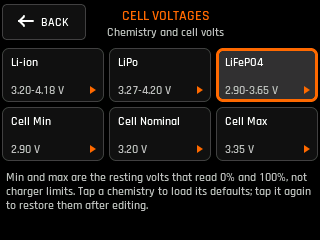
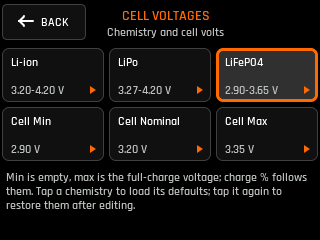
Show the LiFePO4 charge voltage as its maximum but read a rested pack as full at 3.40 V
Cell Max is now the industry's full-charge voltage (3.65 V LiFePO4, 4.20 V
Li-ion). The charge percentage still comes from resting voltage, so each
chemistry has its own resting-full point (3.40 V, 4.18 V) that sits at a fixed
share of the way from Cell Min to Cell Max and moves in proportion when either
is edited.

Changed region(s): [[0.0, 0.7, 0.9688, 0.875], [0.125, 0.35, 0.1562, 0.4083]]

diff --git a/src/lvgl_app/app_logic.cpp b/src/lvgl_app/app_logic.cpp
@@ -31,7 +31,7 @@ uint8_t batterySeriesCount = 20;
 uint8_t batteryChemistry = BATTERY_LIION;
 uint16_t batteryCellMinMv = 3200;
 uint16_t batteryCellNominalMv = 3600;
-uint16_t batteryCellMaxMv = 4180;
+uint16_t batteryCellMaxMv = 4200;
 uint16_t batteryCapacityDeciAh = 200;
 uint16_t batteryMaxAmps = 100;
 uint16_t motorMaxAmps = 150;
@@ -908,16 +908,21 @@ static bool batteryHistoryChanged(bool meaningfulOnly) {
 // and the curve only anchors it near empty and full.
 struct ChemistryProfile {
   const char *name;
-  uint16_t minMv;      // default resting cell voltage that reads 0 %
+  uint16_t minMv;      // default cell voltage that reads empty
   uint16_t nominalMv;  // default nominal cell voltage, behind the Wh figures
-  uint16_t maxMv;      // default resting cell voltage that reads 100 %
-  float ocv[11];       // curve shape between minMv and maxMv
+  uint16_t maxMv;      // default full-charge cell voltage, the figure the industry quotes
+  uint16_t restFullMv; // resting voltage a full pack settles at, which reads 100 %
+  float ocv[11];       // curve shape from minMv (0 %) to restFullMv (100 %)
 };
 
+// A cell charged to its full-charge voltage relaxes below it once the charger
+// lets go, and for LiFePO4 the drop is large (3.65 V charged, about 3.40 V
+// resting). The settings show the charge voltage; the charge percentage is
+// worked out from resting voltage, so it uses restFullMv as its 100 % point.
 static const ChemistryProfile kChemistries[BATTERY_CHEMISTRY_COUNT] = {
-    {"Li-ion", 3200, 3600, 4180, {3.20F, 3.45F, 3.55F, 3.62F, 3.68F, 3.74F, 3.80F, 3.88F, 3.96F, 4.06F, 4.18F}},
-    {"LiPo", 3270, 3700, 4200, {3.27F, 3.69F, 3.73F, 3.77F, 3.80F, 3.84F, 3.87F, 3.95F, 4.02F, 4.11F, 4.20F}},
-    {"LiFePO4", 2900, 3200, 3650, {2.90F, 3.10F, 3.20F, 3.22F, 3.25F, 3.26F, 3.27F, 3.30F, 3.32F, 3.35F, 3.65F}},
+    {"Li-ion", 3200, 3600, 4200, 4180, {3.20F, 3.45F, 3.55F, 3.62F, 3.68F, 3.74F, 3.80F, 3.88F, 3.96F, 4.06F, 4.18F}},
+    {"LiPo", 3270, 3700, 4200, 4200, {3.27F, 3.69F, 3.73F, 3.77F, 3.80F, 3.84F, 3.87F, 3.95F, 4.02F, 4.11F, 4.20F}},
+    {"LiFePO4", 2900, 3200, 3650, 3400, {2.90F, 3.10F, 3.20F, 3.22F, 3.25F, 3.26F, 3.27F, 3.30F, 3.32F, 3.35F, 3.40F}},
 };
 
 static const ChemistryProfile &chemistryProfile(uint8_t chemistry) {
@@ -934,13 +939,16 @@ uint16_t batteryChemistryDefaultMv(uint8_t chemistry, BatteryCellVoltage which) 
 }
 
 // The rider's min and max stretch the chemistry's curve: the curve keeps its
-// shape and its ends move to the chosen window, so 0 % and 100 % mean the
-// voltages the rider set.
+// shape, starts at the rider's minimum and ends at the same share of the way to
+// the rider's maximum that the default resting-full point sits at, so lowering
+// the charge voltage lowers where a full pack reads 100 % in proportion.
 static float cellCurveVolts(int point) {
   const ChemistryProfile &profile = chemistryProfile(batteryChemistry);
   const float defaultSpan = profile.ocv[10] - profile.ocv[0];
   const float shape = defaultSpan > 0.0F ? (profile.ocv[point] - profile.ocv[0]) / defaultSpan : point / 10.0F;
-  return batteryCellMinMv / 1000.0F + shape * (batteryCellMaxMv - batteryCellMinMv) / 1000.0F;
+  const float defaultWindow = (float)(profile.maxMv - profile.minMv);
+  const float restShare = defaultWindow > 0.0F ? (float)(profile.restFullMv - profile.minMv) / defaultWindow : 1.0F;
+  return batteryCellMinMv / 1000.0F + shape * restShare * (batteryCellMaxMv - batteryCellMinMv) / 1000.0F;
 }
 
 float batteryCellFullVolts() {

diff --git a/src/lvgl_app/screens.cpp b/src/lvgl_app/screens.cpp
@@ -6297,17 +6297,17 @@ static void showSubmenu() {
     }
     lv_obj_t *note = makeLabelAt(
         scr, kMenuEdgeX + 4, 170,
-        txt("Min and max are the resting volts that read 0% and 100%, not charger limits. Tap a chemistry to load "
-            "its defaults; tap it again to restore them after editing.",
-            "Min ja max ovat lepojännitteet, joilla näytetään 0 % ja 100 %, eivät laturin rajoja. Valitse kemia "
-            "ladataksesi oletukset; valitse uudelleen palauttaaksesi ne muokkauksen jälkeen.",
-            "Min und max sind die Ruhespannungen für 0 % und 100 %, keine Ladegrenzen. Chemie antippen lädt die "
+        txt("Min is empty, max is the full-charge voltage; charge % follows them. Tap a chemistry to load its "
+            "defaults; tap it again to restore them after editing.",
+            "Min on tyhjä, max täyden latauksen jännite; varaus-% seuraa niitä. Valitse kemia ladataksesi "
+            "oletukset; valitse uudelleen palauttaaksesi ne muokkauksen jälkeen.",
+            "Min ist leer, max die Ladeschlussspannung; die Ladung in % folgt beiden. Chemie antippen lädt die "
             "Standardwerte; erneut antippen stellt sie nach dem Ändern wieder her.",
-            "Min et max sont les tensions au repos pour 0 % et 100 %, pas les limites du chargeur. Touchez une "
-            "chimie pour charger ses valeurs par défaut ; touchez-la à nouveau pour les restaurer.",
-            "Mín y máx son los voltios en reposo para 0 % y 100 %, no límites del cargador. Toque una química para "
+            "Min = vide, max = tension de charge complète ; le % de charge les suit. Touchez une chimie pour "
+            "charger ses valeurs par défaut ; touchez-la à nouveau pour les restaurer.",
+            "Mín es vacío, máx es el voltaje de carga completa; el % de carga los sigue. Toque una química para "
             "cargar sus valores; vuelva a tocarla para restaurarlos tras editar.",
-            "Min e max sono i volt a riposo per 0% e 100%, non i limiti del caricabatterie. Tocca una chimica per "
+            "Min è vuoto, max è la tensione di carica completa; la % di carica li segue. Tocca una chimica per "
             "caricare i valori predefiniti; toccala di nuovo per ripristinarli."),
         cyd_ui::secondaryText(), &lv_font_rajdhani_12, 0);
     lv_obj_set_width(note, kMenuContentW - 8);

diff --git a/tools/lvgl_native_preview/vehicle_fields_test.cpp b/tools/lvgl_native_preview/vehicle_fields_test.cpp
@@ -305,18 +305,21 @@ void testBatteryChemistry() {
   expectValue(VEHICLE_FIELD_BATTERY_CHEMISTRY, "Li-ion", "chemistry tile shows Li-ion");
   expectValue(VEHICLE_FIELD_CELL_MIN_V, "3.20 V", "Li-ion default minimum");
   expectValue(VEHICLE_FIELD_CELL_NOMINAL_V, "3.60 V", "Li-ion default nominal");
-  expectValue(VEHICLE_FIELD_CELL_MAX_V, "4.18 V", "Li-ion default maximum");
+  expectValue(VEHICLE_FIELD_CELL_MAX_V, "4.20 V", "Li-ion default maximum is its charge voltage");
   expect(batterySocFromVoltage(10 * 3.80F) == 60, "Li-ion 3.80 V per cell is 60%");
   expect(batterySocFromVoltage(10 * 4.30F) == 100, "Li-ion above the curve clamps to 100%");
   expect(batterySocFromVoltage(10 * 3.00F) == 0, "Li-ion below the curve clamps to 0%");
-  expect(fabsf(batteryCellFullVolts() - 4.18F) < 0.001F, "Li-ion full cell voltage keeps the old 4.18 V scale");
+  expect(fabsf(batteryCellFullVolts() - 4.20F) < 0.001F, "Li-ion full cell voltage is the 4.20 V charge voltage");
+  expect(batterySocFromVoltage(10 * 4.18F) == 100, "a rested full Li-ion pack at 4.18 V still reads 100%");
 
   setBatteryChemistry(BATTERY_LIFEPO4);
   expectValue(VEHICLE_FIELD_BATTERY_CHEMISTRY, "LiFePO4", "chemistry tile shows LiFePO4");
   expectValue(VEHICLE_FIELD_CELL_NOMINAL_V, "3.20 V", "LiFePO4 default nominal");
   expectValue(VEHICLE_FIELD_CELL_MAX_V, "3.65 V", "LiFePO4 default maximum");
-  expect(batterySocFromVoltage(10 * 3.65F) == 100, "LiFePO4 default maximum reads 100%");
-  expect(batterySocFromVoltage(10 * 3.60F) < 100, "LiFePO4 3.60 V per cell is below full charge");
+  expect(batterySocFromVoltage(10 * 3.65F) == 100, "LiFePO4 charge voltage reads 100%");
+  expect(batterySocFromVoltage(10 * 3.40F) == 100, "a rested full LiFePO4 pack at 3.40 V reads 100%");
+  expect(batterySocFromVoltage(10 * 3.35F) < 100, "3.35 V per cell is not yet a full LiFePO4 cell");
+  expect(batterySocFromVoltage(10 * 3.60F) == 100, "LiFePO4 surface voltage while charging reads 100%");
   expect(batterySocFromVoltage(10 * 3.80F) == 100, "3.80 V per cell is a full LiFePO4 cell");
   expect(batterySocFromVoltage(10 * 3.26F) == 50, "LiFePO4 3.26 V per cell is half full");
   expect(batterySocFromVoltage(10 * 2.80F) == 0, "LiFePO4 below the curve is empty");

diff --git a/src/lvgl_app/vehicle_fields.cpp b/src/lvgl_app/vehicle_fields.cpp
@@ -158,17 +158,17 @@ const char *vehicleFieldInputHint(int field) {
       return txt("Series cell count, 4-32 S", "Sarjaan kytketyt kennot, 4-32 S", "Zellen in Reihe, 4-32 S",
                  "Cellules en série, 4-32 S", "Celdas en serie, 4-32 S", "Celle in serie, 4-32 S");
     case VEHICLE_FIELD_CELL_MIN_V:
-      return txt("Resting volts per cell that read 0%, 2.0-4.0", "Lepojännite per kenno, jolla 0 %, 2.0-4.0",
-                 "Ruhespannung je Zelle für 0 %, 2.0-4.0", "Tension au repos par cellule pour 0 %, 2.0-4.0",
-                 "Voltios en reposo por celda para 0 %, 2.0-4.0", "Volt a riposo per cella per 0%, 2.0-4.0");
+      return txt("Empty cell voltage (0%), 2.0-4.0", "Tyhjän kennon jännite (0 %), 2.0-4.0",
+                 "Spannung leere Zelle (0 %), 2.0-4.0", "Tension cellule vide (0 %), 2.0-4.0",
+                 "Voltaje celda vacía (0 %), 2.0-4.0", "Tensione cella vuota (0%), 2.0-4.0");
     case VEHICLE_FIELD_CELL_NOMINAL_V:
       return txt("Nominal volts per cell, used for Wh, 2.5-4.3", "Nimellisjännite per kenno (Wh), 2.5-4.3",
                  "Nennspannung je Zelle für Wh, 2.5-4.3", "Tension nominale par cellule (Wh), 2.5-4.3",
                  "Voltios nominales por celda (Wh), 2.5-4.3", "Volt nominali per cella (Wh), 2.5-4.3");
     case VEHICLE_FIELD_CELL_MAX_V:
-      return txt("Resting volts per cell that read 100%, 3.0-4.5", "Lepojännite per kenno, jolla 100 %, 3.0-4.5",
-                 "Ruhespannung je Zelle für 100 %, 3.0-4.5", "Tension au repos par cellule pour 100 %, 3.0-4.5",
-                 "Voltios en reposo por celda para 100 %, 3.0-4.5", "Volt a riposo per cella per 100%, 3.0-4.5");
+      return txt("Full-charge cell voltage, 3.0-4.5", "Täyden latauksen jännite, 3.0-4.5",
+                 "Ladeschlussspannung je Zelle, 3.0-4.5", "Tension de charge complète, 3.0-4.5",
+                 "Voltaje de carga completa, 3.0-4.5", "Tensione di carica completa, 3.0-4.5");
     case VEHICLE_FIELD_BATTERY_AH:
       return txt("Usable battery capacity in Ah", "Käytettävä akun kapasiteetti (Ah)", "Nutzbare Akkukapazität in Ah",
                  "Capacité utile de la batterie en Ah", "Capacidad útil de la batería en Ah",

diff --git a/src/lvgl_app/app_state.h b/src/lvgl_app/app_state.h
@@ -336,8 +336,10 @@ enum BatteryChemistry : uint8_t {
   BATTERY_CHEMISTRY_COUNT
 };
 // Each chemistry has default cell voltages the rider can then adjust. The
-// minimum and maximum are the resting voltages that read 0 % and 100 %, not
-// charger limits; the nominal voltage turns amp-hours into watt-hours.
+// minimum is the empty cell and the maximum the full-charge voltage, as the
+// industry quotes them (3.65 V for LiFePO4). The charge percentage reads a full
+// pack as 100 % at the lower voltage it rests at, scaled with the maximum; the
+// nominal voltage turns amp-hours into watt-hours.
 enum BatteryCellVoltage : uint8_t { BATTERY_CELL_MIN, BATTERY_CELL_NOMINAL, BATTERY_CELL_MAX };
 const char *batteryChemistryName(uint8_t chemistry);
 uint16_t batteryChemistryDefaultMv(uint8_t chemistry, BatteryCellVoltage which);

diff --git a/src/lvgl_app/dashboards.cpp b/src/lvgl_app/dashboards.cpp
@@ -464,9 +464,9 @@ static int powerBarMax() {
   return max(100, (int)peakPowerDeciKw * 100);
 }
 
-// Full pack voltage from the configured series count. The state-of-charge
-// curve tops out at the chemistry's full-cell voltage (4.18 V for Li-ion), so a
-// bar scaled to this reads full at the same moment the charge readout says 100%.
+// Full pack voltage from the configured series count: the full-charge cell
+// voltage (4.20 V for Li-ion), so the bar fills while charging and a rested full
+// pack sits just below the end of it.
 static int packVoltageMax() {
   if (demoPreviewIsFrozen()) return 84;  // thumbnail pack: 20 cells at 4.18 V
   return max(1, (int)lroundf((float)batterySeriesCount * batteryCellFullVolts()));

diff --git a/docs/ui-components.md b/docs/ui-components.md
@@ -213,9 +213,12 @@ tiles. The chemistry tile opens Cell Voltages, where Li-ion, LiPo and LiFePO4 ar
 selectable tiles (the chosen one filled, `makeMenuButton(..., active)`) over three
 numeric tiles for cell minimum, nominal and maximum volts. Choosing a chemistry
 loads its default voltages; choosing the current one again restores them. Minimum
-and maximum are the resting volts that read 0% and 100%, not charger limits, and
-they stretch the chemistry's curve between them; nominal volts only turn Ah into
-Wh. The window keeps at least 0.3 V and the nominal voltage stays inside it. Any
+is the empty cell and maximum the full-charge voltage, as the industry quotes it
+(3.65 V for LiFePO4). The charge percentage is read from resting voltage, so a
+full pack counts as 100% at the lower voltage it settles at (3.40 V for LiFePO4,
+4.18 V for Li-ion); that point is a fixed share of the way from minimum to
+maximum, so editing either moves it in proportion. Nominal volts only turn Ah
+into Wh. The window keeps at least 0.3 V and the nominal voltage stays inside it. Any
 change to chemistry or voltages restarts the charge estimate and the measured
 capacity, because both were derived from the old curve. Back returns to Battery
 Configuration. The series and capacity tiles open the keypad directly.
